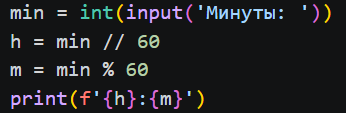
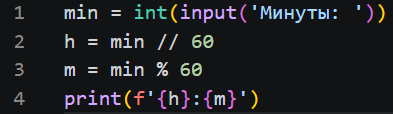
update readme

diff --git a/src/lab01/README.md b/src/lab01/README.md
@@ -1,48 +1,42 @@
 # lab01
 ## 01_greeting
-### Код
+#### [Код](https://github.com/Mertysh/python_labs/blob/c9185f694667ee1118daf02a156e5240ccc4ec34/src/lab01/01_greeting.py)
 ![alt text](../../images/lab01/01_greeting_code.png)
-### Вывод
+#### Вывод
 ![alt text](../../images/lab01/01_greeting.png)
 
 ## 02_sum_avg
-### Код
+#### [Код](https://github.com/Mertysh/python_labs/blob/c9185f694667ee1118daf02a156e5240ccc4ec34/src/lab01/02_sum_avg.py)
 ![alt text](../../images/lab01/02_sum_avg_code.png)
-
-## Вывод
+#### Вывод
 ![alt text](../../images/lab01/02_sum_avg.png)
 
 ## 03_discount_vat
-### Код
+#### [Код](https://github.com/Mertysh/python_labs/blob/c9185f694667ee1118daf02a156e5240ccc4ec34/src/lab01/03_discount_vat.py)
 ![alt text](../../images/lab01/03_discount_vat_code.png)
-
-## Вывод
+#### Вывод
 ![alt text](../../images/lab01/03_discount_vat.png)
 
 ## 04_minutes_to_hhmm
-### Код
+#### [Код](https://github.com/Mertysh/python_labs/blob/c9185f694667ee1118daf02a156e5240ccc4ec34/src/lab01/04_minutes_to_hhmm.py)
 ![alt text](../../images/lab01/04_minutes_to_hhmm_code.png)
-
-## Вывод
+#### Вывод
 ![alt text](../../images/lab01/04_minutes_to_hhmm.png)
 
 ## 05_initials_and_len
-### Код
+#### [Код](https://github.com/Mertysh/python_labs/blob/c9185f694667ee1118daf02a156e5240ccc4ec34/src/lab01/05_initials_and_len.py)
 ![alt text](../../images/lab01/05_initials_and_len_code.png)
-
-## Вывод
+#### Вывод
 ![alt text](../../images/lab01/05_initials_and_len.png)
 
 ## ex06
-### Код
+#### [Код](https://github.com/Mertysh/python_labs/blob/c9185f694667ee1118daf02a156e5240ccc4ec34/src/lab01/ex06.py)
 ![alt text](../../images/lab01/ex06_code.png)
-
-## Вывод
+#### Вывод
 ![alt text](../../images/lab01/ex06.png)
 
 ## ex07
-### Код
+#### [Код](https://github.com/Mertysh/python_labs/blob/c9185f694667ee1118daf02a156e5240ccc4ec34/src/lab01/ex07.py)
 ![alt text](../../images/lab01/ex07_code.png)
-
-## Вывод
+#### Вывод
 ![alt text](../../images/lab01/ex07.png)
